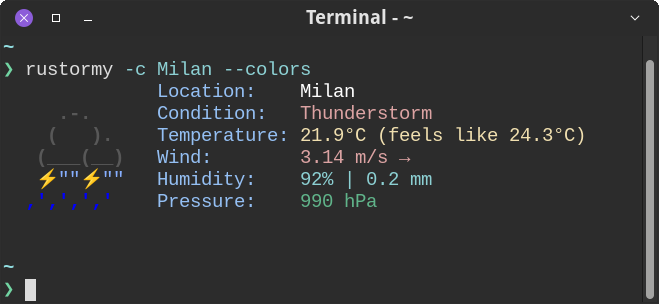
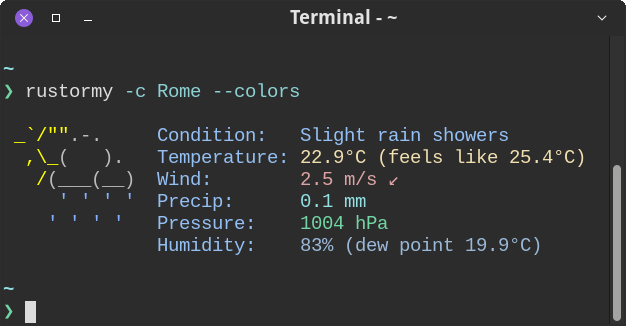
:art: Update screenshots in README

diff --git a/README.md b/README.md
@@ -278,8 +278,8 @@ Options:
 ## Examples
 
 ![Basic usage: `rustormy -c London`](.github/assets/basic.png)
-![Colors: `rustormy -c Milan --colors`](.github/assets/colors.png)
-![Imperial units: `rustormy -c "New York" --colors -u imperial`](.github/assets/imperial.png)
+![Colors: `rustormy -c Rome --colors`](.github/assets/colors.png)
+![Imperial units: `rustormy -c Austin --colors -u imperial`](.github/assets/imperial.png)
 ![Spanish translation: `rustormy -c Valparaiso -g es --name --colors`](.github/assets/spanish.png)
 ![Compact and one-line modes](.github/assets/compact.png)
 ![JSON output: `rustormy -c Ajax -o json`](.github/assets/json.png)
